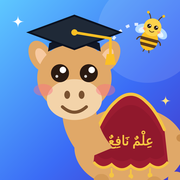
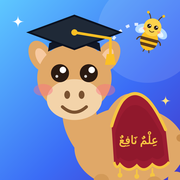
Сабур: попона больше не уходит под шею, надпись видна целиком
Claude-Session: https://claude.ai/code/session_01Cm4BGiETkxANavc8i9VW5H

Changed region(s): [[0.5, 0.5, 0.9444, 1.0]]

diff --git a/index.html b/index.html
@@ -476,7 +476,7 @@ var OLD_EMOJI={"🦁":"b-lion","🐯":"b-tiger","🐺":"b-wolf","🐻":"b-bear",
   d.innerHTML='<svg xmlns="http://www.w3.org/2000/svg" width="0" height="0">'+AVS.map(function(a){return '<symbol id="av-'+a[0]+'" viewBox="0 0 100 100">'+a[3]+'</symbol>'}).join("")+'</svg>';
   document.body.appendChild(d)})();
 /* Персонажи платформы: верблюжонок Сабур и его помощница пчёлка Асаль */
-var MASC={"sab": "<ellipse cx=\"118\" cy=\"128\" rx=\"46\" ry=\"34\" fill=\"#e0a868\"/><path d=\"M96 104Q118 62 142 104Z\" fill=\"#e0a868\"/><path d=\"M91 113Q98 97 106 90Q119 77 132 90Q140 97 147 113L150 140Q143 148 135 142Q127 150 119 143Q111 150 103 142Q95 148 88 140Z\" fill=\"#9B1C31\"/><path d=\"M93 118Q100 104 107 98Q119 87 131 98Q138 104 145 118L147 134Q141 140 135 136Q127 142 119 137Q111 142 103 136Q97 140 91 134Z\" fill=\"#7A1225\" opacity=\".35\"/><path d=\"M91 113Q98 97 106 90Q119 77 132 90Q140 97 147 113\" stroke=\"#F5C542\" stroke-width=\"2.6\" fill=\"none\" stroke-linecap=\"round\"/><path d=\"M150 140Q143 148 135 142Q127 150 119 143Q111 150 103 142Q95 148 88 140\" stroke=\"#F5C542\" stroke-width=\"2.2\" fill=\"none\"/><path d=\"M103 145v5\" stroke=\"#F5C542\" stroke-width=\"1.4\"/><circle cx=\"103\" cy=\"151\" r=\"2\" fill=\"#F5C542\"/><path d=\"M119 146v5\" stroke=\"#F5C542\" stroke-width=\"1.4\"/><circle cx=\"119\" cy=\"152\" r=\"2\" fill=\"#F5C542\"/><path d=\"M135 145v5\" stroke=\"#F5C542\" stroke-width=\"1.4\"/><circle cx=\"135\" cy=\"151\" r=\"2\" fill=\"#F5C542\"/><text x=\"119\" y=\"126\" font-size=\"11\" text-anchor=\"middle\" fill=\"#F5C542\" style=\"font-family:Ruqaa,'Aref Ruqaa',serif;font-weight:700\">عِلْمٌ نَافِعٌ<\/text><rect x=\"88\" y=\"150\" width=\"13\" height=\"36\" rx=\"6\" fill=\"#d39a58\"/><rect x=\"108\" y=\"152\" width=\"13\" height=\"34\" rx=\"6\" fill=\"#e0a868\"/><rect x=\"132\" y=\"152\" width=\"13\" height=\"34\" rx=\"6\" fill=\"#d39a58\"/><rect x=\"150\" y=\"148\" width=\"13\" height=\"38\" rx=\"6\" fill=\"#e0a868\"/><path d=\"M160 120q16 4 14 22\" stroke=\"#c98d4b\" stroke-width=\"6\" fill=\"none\" stroke-linecap=\"round\"/><path d=\"M64 86Q56 112 80 138L104 128Q88 110 90 86Z\" fill=\"#e0a868\"/><ellipse cx=\"44\" cy=\"52\" rx=\"9\" ry=\"14\" transform=\"rotate(-28 44 52)\" fill=\"#e0a868\"/><ellipse cx=\"45\" cy=\"53\" rx=\"4.5\" ry=\"8.5\" transform=\"rotate(-28 45 53)\" fill=\"#f7c9a0\"/><ellipse cx=\"100\" cy=\"52\" rx=\"9\" ry=\"14\" transform=\"rotate(28 100 52)\" fill=\"#e0a868\"/><ellipse cx=\"99\" cy=\"53\" rx=\"4.5\" ry=\"8.5\" transform=\"rotate(28 99 53)\" fill=\"#f7c9a0\"/><ellipse cx=\"72\" cy=\"70\" rx=\"31\" ry=\"29\" fill=\"#e0a868\"/><ellipse cx=\"72\" cy=\"88\" rx=\"23\" ry=\"17\" fill=\"#f3d3a9\"/><circle cx=\"60\" cy=\"66\" r=\"7.5\" fill=\"#2a1a12\"/><circle cx=\"62.4\" cy=\"63.3\" r=\"2.6999999999999997\" fill=\"#fff\"/><circle cx=\"57.375\" cy=\"68.625\" r=\"1.2\" fill=\"#fff\" opacity=\".8\"/><circle cx=\"84\" cy=\"66\" r=\"7.5\" fill=\"#2a1a12\"/><circle cx=\"86.4\" cy=\"63.3\" r=\"2.6999999999999997\" fill=\"#fff\"/><circle cx=\"81.375\" cy=\"68.625\" r=\"1.2\" fill=\"#fff\" opacity=\".8\"/><ellipse cx=\"46\" cy=\"80\" rx=\"8\" ry=\"5\" fill=\"#fb7185\" opacity=\".45\"/><ellipse cx=\"98\" cy=\"80\" rx=\"8\" ry=\"5\" fill=\"#fb7185\" opacity=\".45\"/><ellipse cx=\"66\" cy=\"84\" rx=\"2.4\" ry=\"3.4\" fill=\"#7a5230\"/><ellipse cx=\"78\" cy=\"84\" rx=\"2.4\" ry=\"3.4\" fill=\"#7a5230\"/><path d=\"M62 94q10 9 20 0\" stroke=\"#7a5230\" stroke-width=\"2.6\" fill=\"none\" stroke-linecap=\"round\"/><path d=\"M50 48Q72 36 94 48L93 41Q72 31 51 41Z\" fill=\"#111827\"/><path d=\"M72 18L110 32L72 46L34 32Z\" fill=\"#1f2937\"/><path d=\"M72 18L110 32L72 46L34 32Z\" fill=\"none\" stroke=\"#0b1220\" stroke-width=\"1.5\"/><circle cx=\"72\" cy=\"32\" r=\"2.6\" fill=\"#fbbf24\"/><path d=\"M72 32L102 37L102 52\" stroke=\"#fbbf24\" stroke-width=\"2.2\" fill=\"none\" stroke-linecap=\"round\"/><path d=\"M99 50h6l1.5 9h-9Z\" fill=\"#fbbf24\"/>", "asl": "<ellipse cx=\"58\" cy=\"96\" rx=\"30\" ry=\"20\" transform=\"rotate(-28 58 96)\" fill=\"#bfe3ff\" opacity=\".9\"/><ellipse cx=\"142\" cy=\"96\" rx=\"30\" ry=\"20\" transform=\"rotate(28 142 96)\" fill=\"#bfe3ff\" opacity=\".9\"/><ellipse cx=\"62\" cy=\"100\" rx=\"18\" ry=\"11\" transform=\"rotate(-28 62 100)\" fill=\"#e6f4ff\"/><ellipse cx=\"138\" cy=\"100\" rx=\"18\" ry=\"11\" transform=\"rotate(28 138 100)\" fill=\"#e6f4ff\"/><defs><clipPath id=\"ms-bb\"><ellipse cx=\"100\" cy=\"138\" rx=\"38\" ry=\"44\"/><\/clipPath><\/defs><ellipse cx=\"100\" cy=\"138\" rx=\"38\" ry=\"44\" fill=\"#fbbf24\"/><g clip-path=\"url(#ms-bb)\"><rect x=\"50\" y=\"128\" width=\"100\" height=\"13\" fill=\"#5b3a1a\"/><rect x=\"50\" y=\"152\" width=\"100\" height=\"13\" fill=\"#5b3a1a\"/><\/g><path d=\"M90 180l-3 9M110 180l3 9\" stroke=\"#5b3a1a\" stroke-width=\"4\" stroke-linecap=\"round\"/><path d=\"M64 130q-14 4 -16 16M136 130q14 4 16 16\" stroke=\"#5b3a1a\" stroke-width=\"5\" fill=\"none\" stroke-linecap=\"round\"/><path d=\"M84 48Q76 26 66 22M116 48Q124 26 134 22\" stroke=\"#5b3a1a\" stroke-width=\"4\" fill=\"none\" stroke-linecap=\"round\"/><circle cx=\"66\" cy=\"22\" r=\"6\" fill=\"#fbbf24\"/><circle cx=\"134\" cy=\"22\" r=\"6\" fill=\"#fbbf24\"/><circle cx=\"100\" cy=\"80\" r=\"38\" fill=\"#fcd34d\"/><circle cx=\"85\" cy=\"78\" r=\"9\" fill=\"#2a1a12\"/><circle cx=\"87.88\" cy=\"74.76\" r=\"3.2399999999999998\" fill=\"#fff\"/><circle cx=\"81.85\" cy=\"81.15\" r=\"1.44\" fill=\"#fff\" opacity=\".8\"/><circle cx=\"115\" cy=\"78\" r=\"9\" fill=\"#2a1a12\"/><circle cx=\"117.88\" cy=\"74.76\" r=\"3.2399999999999998\" fill=\"#fff\"/><circle cx=\"111.85\" cy=\"81.15\" r=\"1.44\" fill=\"#fff\" opacity=\".8\"/><ellipse cx=\"68\" cy=\"94\" rx=\"8\" ry=\"5\" fill=\"#fb7185\" opacity=\".45\"/><ellipse cx=\"132\" cy=\"94\" rx=\"8\" ry=\"5\" fill=\"#fb7185\" opacity=\".45\"/><path d=\"M90 96q10 10 20 0\" stroke=\"#5b3a1a\" stroke-width=\"3\" fill=\"none\" stroke-linecap=\"round\"/>"};
+var MASC={"sab": "<ellipse cx=\"118\" cy=\"128\" rx=\"46\" ry=\"34\" fill=\"#e0a868\"/><path d=\"M96 104Q118 62 142 104Z\" fill=\"#e0a868\"/><path d=\"M103 110Q107 96 112 89Q122 77 134 89Q141 97 148 113L151 140Q144 148 137 142Q130 150 124 143Q117 150 110 142Q107 147 105 140Z\" fill=\"#9B1C31\"/><path d=\"M106 116Q109 103 114 97Q122 88 132 97Q138 104 145 118L147 134Q142 140 137 136Q130 142 124 137Q117 142 110 136Q108 140 107 134Z\" fill=\"#7A1225\" opacity=\".35\"/><path d=\"M103 110Q107 96 112 89Q122 77 134 89Q141 97 148 113\" stroke=\"#F5C542\" stroke-width=\"2.6\" fill=\"none\" stroke-linecap=\"round\"/><path d=\"M151 140Q144 148 137 142Q130 150 124 143Q117 150 110 142Q107 147 105 140\" stroke=\"#F5C542\" stroke-width=\"2.2\" fill=\"none\"/><path d=\"M110 145v5\" stroke=\"#F5C542\" stroke-width=\"1.4\"/><circle cx=\"110\" cy=\"151\" r=\"2\" fill=\"#F5C542\"/><path d=\"M124 146v5\" stroke=\"#F5C542\" stroke-width=\"1.4\"/><circle cx=\"124\" cy=\"152\" r=\"2\" fill=\"#F5C542\"/><path d=\"M137 145v5\" stroke=\"#F5C542\" stroke-width=\"1.4\"/><circle cx=\"137\" cy=\"151\" r=\"2\" fill=\"#F5C542\"/><text x=\"125.5\" y=\"125\" font-size=\"9.5\" text-anchor=\"middle\" fill=\"#F5C542\" style=\"font-family:Ruqaa,'Aref Ruqaa',serif;font-weight:700\">عِلْمٌ نَافِعٌ<\/text><rect x=\"88\" y=\"150\" width=\"13\" height=\"36\" rx=\"6\" fill=\"#d39a58\"/><rect x=\"108\" y=\"152\" width=\"13\" height=\"34\" rx=\"6\" fill=\"#e0a868\"/><rect x=\"132\" y=\"152\" width=\"13\" height=\"34\" rx=\"6\" fill=\"#d39a58\"/><rect x=\"150\" y=\"148\" width=\"13\" height=\"38\" rx=\"6\" fill=\"#e0a868\"/><path d=\"M160 120q16 4 14 22\" stroke=\"#c98d4b\" stroke-width=\"6\" fill=\"none\" stroke-linecap=\"round\"/><path d=\"M64 86Q56 112 80 138L104 128Q88 110 90 86Z\" fill=\"#e0a868\"/><ellipse cx=\"44\" cy=\"52\" rx=\"9\" ry=\"14\" transform=\"rotate(-28 44 52)\" fill=\"#e0a868\"/><ellipse cx=\"45\" cy=\"53\" rx=\"4.5\" ry=\"8.5\" transform=\"rotate(-28 45 53)\" fill=\"#f7c9a0\"/><ellipse cx=\"100\" cy=\"52\" rx=\"9\" ry=\"14\" transform=\"rotate(28 100 52)\" fill=\"#e0a868\"/><ellipse cx=\"99\" cy=\"53\" rx=\"4.5\" ry=\"8.5\" transform=\"rotate(28 99 53)\" fill=\"#f7c9a0\"/><ellipse cx=\"72\" cy=\"70\" rx=\"31\" ry=\"29\" fill=\"#e0a868\"/><ellipse cx=\"72\" cy=\"88\" rx=\"23\" ry=\"17\" fill=\"#f3d3a9\"/><circle cx=\"60\" cy=\"66\" r=\"7.5\" fill=\"#2a1a12\"/><circle cx=\"62.4\" cy=\"63.3\" r=\"2.6999999999999997\" fill=\"#fff\"/><circle cx=\"57.375\" cy=\"68.625\" r=\"1.2\" fill=\"#fff\" opacity=\".8\"/><circle cx=\"84\" cy=\"66\" r=\"7.5\" fill=\"#2a1a12\"/><circle cx=\"86.4\" cy=\"63.3\" r=\"2.6999999999999997\" fill=\"#fff\"/><circle cx=\"81.375\" cy=\"68.625\" r=\"1.2\" fill=\"#fff\" opacity=\".8\"/><ellipse cx=\"46\" cy=\"80\" rx=\"8\" ry=\"5\" fill=\"#fb7185\" opacity=\".45\"/><ellipse cx=\"98\" cy=\"80\" rx=\"8\" ry=\"5\" fill=\"#fb7185\" opacity=\".45\"/><ellipse cx=\"66\" cy=\"84\" rx=\"2.4\" ry=\"3.4\" fill=\"#7a5230\"/><ellipse cx=\"78\" cy=\"84\" rx=\"2.4\" ry=\"3.4\" fill=\"#7a5230\"/><path d=\"M62 94q10 9 20 0\" stroke=\"#7a5230\" stroke-width=\"2.6\" fill=\"none\" stroke-linecap=\"round\"/><path d=\"M50 48Q72 36 94 48L93 41Q72 31 51 41Z\" fill=\"#111827\"/><path d=\"M72 18L110 32L72 46L34 32Z\" fill=\"#1f2937\"/><path d=\"M72 18L110 32L72 46L34 32Z\" fill=\"none\" stroke=\"#0b1220\" stroke-width=\"1.5\"/><circle cx=\"72\" cy=\"32\" r=\"2.6\" fill=\"#fbbf24\"/><path d=\"M72 32L102 37L102 52\" stroke=\"#fbbf24\" stroke-width=\"2.2\" fill=\"none\" stroke-linecap=\"round\"/><path d=\"M99 50h6l1.5 9h-9Z\" fill=\"#fbbf24\"/>", "asl": "<ellipse cx=\"58\" cy=\"96\" rx=\"30\" ry=\"20\" transform=\"rotate(-28 58 96)\" fill=\"#bfe3ff\" opacity=\".9\"/><ellipse cx=\"142\" cy=\"96\" rx=\"30\" ry=\"20\" transform=\"rotate(28 142 96)\" fill=\"#bfe3ff\" opacity=\".9\"/><ellipse cx=\"62\" cy=\"100\" rx=\"18\" ry=\"11\" transform=\"rotate(-28 62 100)\" fill=\"#e6f4ff\"/><ellipse cx=\"138\" cy=\"100\" rx=\"18\" ry=\"11\" transform=\"rotate(28 138 100)\" fill=\"#e6f4ff\"/><defs><clipPath id=\"ms-bb\"><ellipse cx=\"100\" cy=\"138\" rx=\"38\" ry=\"44\"/><\/clipPath><\/defs><ellipse cx=\"100\" cy=\"138\" rx=\"38\" ry=\"44\" fill=\"#fbbf24\"/><g clip-path=\"url(#ms-bb)\"><rect x=\"50\" y=\"128\" width=\"100\" height=\"13\" fill=\"#5b3a1a\"/><rect x=\"50\" y=\"152\" width=\"100\" height=\"13\" fill=\"#5b3a1a\"/><\/g><path d=\"M90 180l-3 9M110 180l3 9\" stroke=\"#5b3a1a\" stroke-width=\"4\" stroke-linecap=\"round\"/><path d=\"M64 130q-14 4 -16 16M136 130q14 4 16 16\" stroke=\"#5b3a1a\" stroke-width=\"5\" fill=\"none\" stroke-linecap=\"round\"/><path d=\"M84 48Q76 26 66 22M116 48Q124 26 134 22\" stroke=\"#5b3a1a\" stroke-width=\"4\" fill=\"none\" stroke-linecap=\"round\"/><circle cx=\"66\" cy=\"22\" r=\"6\" fill=\"#fbbf24\"/><circle cx=\"134\" cy=\"22\" r=\"6\" fill=\"#fbbf24\"/><circle cx=\"100\" cy=\"80\" r=\"38\" fill=\"#fcd34d\"/><circle cx=\"85\" cy=\"78\" r=\"9\" fill=\"#2a1a12\"/><circle cx=\"87.88\" cy=\"74.76\" r=\"3.2399999999999998\" fill=\"#fff\"/><circle cx=\"81.85\" cy=\"81.15\" r=\"1.44\" fill=\"#fff\" opacity=\".8\"/><circle cx=\"115\" cy=\"78\" r=\"9\" fill=\"#2a1a12\"/><circle cx=\"117.88\" cy=\"74.76\" r=\"3.2399999999999998\" fill=\"#fff\"/><circle cx=\"111.85\" cy=\"81.15\" r=\"1.44\" fill=\"#fff\" opacity=\".8\"/><ellipse cx=\"68\" cy=\"94\" rx=\"8\" ry=\"5\" fill=\"#fb7185\" opacity=\".45\"/><ellipse cx=\"132\" cy=\"94\" rx=\"8\" ry=\"5\" fill=\"#fb7185\" opacity=\".45\"/><path d=\"M90 96q10 10 20 0\" stroke=\"#5b3a1a\" stroke-width=\"3\" fill=\"none\" stroke-linecap=\"round\"/>"};
 (function(){var d=document.createElement("div");d.setAttribute("aria-hidden","true");d.style.cssText="position:absolute;width:0;height:0;overflow:hidden";
   d.innerHTML='<svg xmlns="http://www.w3.org/2000/svg" width="0" height="0">'+Object.keys(MASC).map(function(k){return '<symbol id="ms-'+k+'" viewBox="0 0 200 200">'+MASC[k]+'</symbol>'}).join("")+'</svg>';document.body.appendChild(d)})();
 function mas(k,w,cls){return '<svg'+(cls?' class="'+cls+'"':"")+' viewBox="0 0 200 200" width="'+w+'" height="'+w+'" aria-hidden="true"><use href="#ms-'+k+'"/></svg>'}
